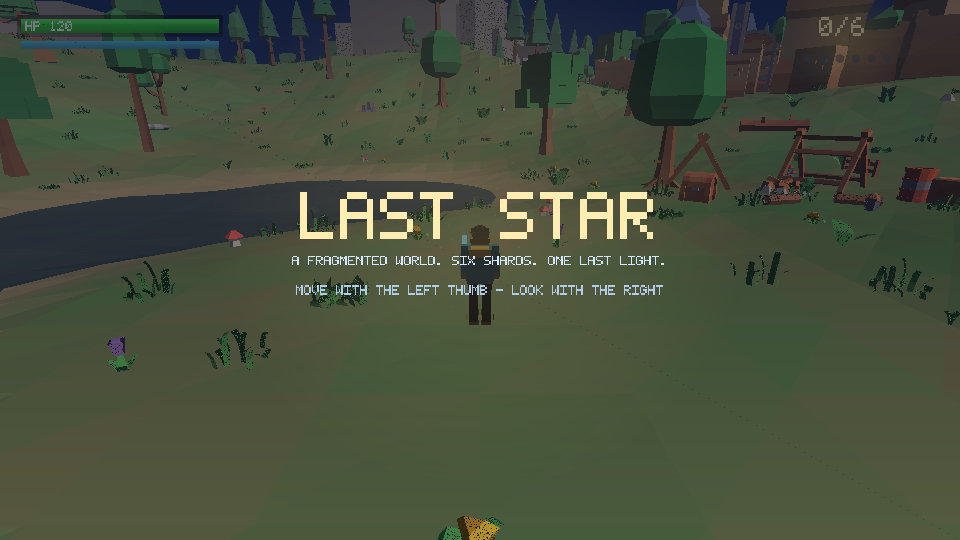
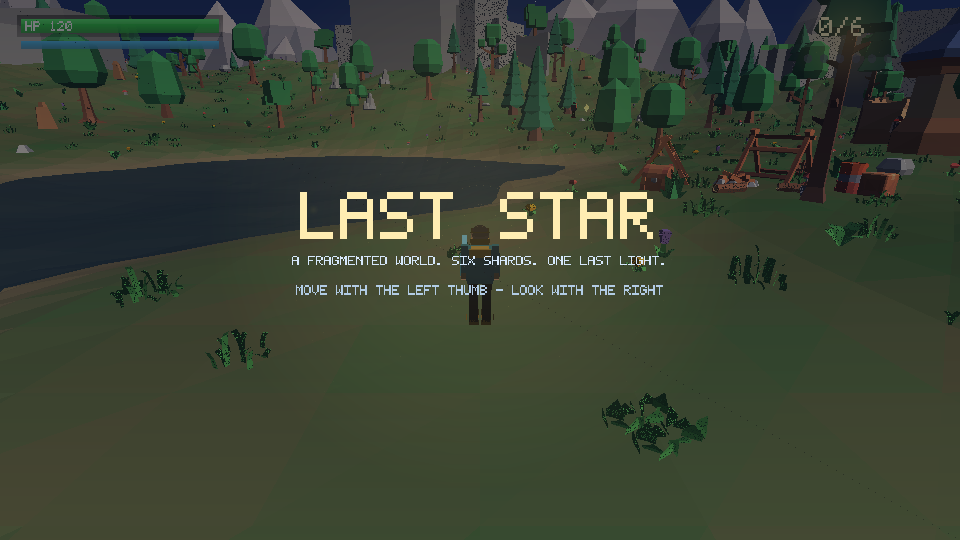
Sculpt a mountain ring and add a distant snow-capped range

diff --git a/app/src/main/java/com/laststar/game/gl/Geometry.java b/app/src/main/java/com/laststar/game/gl/Geometry.java
@@ -55,11 +55,20 @@ public final class Geometry {
                 gg = lerp(gg, 0.60f, dirtT);
                 gb = lerp(gb, 0.44f, dirtT);
 
-                // Rock on steep faces: cool grey-violet.
-                float rockT = Noise.smoothstep(0.26f, 0.55f, slope);
-                gr = lerp(gr, 0.58f, rockT);
-                gg = lerp(gg, 0.60f, rockT);
-                gb = lerp(gb, 0.68f, rockT);
+                // Rock on any real gradient. The threshold is deliberately low:
+                // a 1-in-3 mountain face is only slope 0.5 here, and the whole
+                // point of the ring is that it reads as rock, not as a green
+                // hill. Grey-violet, so it sits between the grass and the sky.
+                float rockT = Noise.smoothstep(0.10f, 0.34f, slope);
+                gr = lerp(gr, 0.56f, rockT);
+                gg = lerp(gg, 0.58f, rockT);
+                gb = lerp(gb, 0.66f, rockT);
+
+                // High ground rock is warmer, like weathered granite.
+                float altT = Noise.smoothstep(18f, 38f, y);
+                gr = lerp(gr, 0.62f, altT * 0.55f);
+                gg = lerp(gg, 0.62f, altT * 0.55f);
+                gb = lerp(gb, 0.68f, altT * 0.55f);
 
                 // Sand around the waterline.
                 float sandT = Noise.smoothstep(t.waterLevel + 1.1f, t.waterLevel + 0.2f, y);
@@ -67,15 +76,18 @@ public final class Geometry {
                 gg = lerp(gg, 0.79f, sandT);
                 gb = lerp(gb, 0.60f, sandT);
 
-                // Snow on high ridges.
-                float snowT = Noise.smoothstep(12f, 18f, y);
-                gr = lerp(gr, 0.95f, snowT);
+                // Snow on the summits only. The band is broken up by noise so
+                // the snowline is ragged rather than a painted contour, and it
+                // hugs the peaks: the arena floor stays green.
+                float line = 40f + patch * 9f;
+                float snowT = Noise.smoothstep(line, line + 11f, y);
+                gr = lerp(gr, 0.96f, snowT);
                 gg = lerp(gg, 0.97f, snowT);
                 gb = lerp(gb, 1.00f, snowT);
 
                 // Gentle ambient occlusion in the valleys -- kept light so the
                 // shadow side stays blue rather than going black.
-                float ao = Noise.clamp01(0.90f + 0.14f * Noise.smoothstep(-2f, 7f, y));
+                float ao = Noise.clamp01(0.74f + 0.30f * Noise.smoothstep(-2f, 30f, y));
                 gr *= ao;
                 gg *= ao;
                 gb *= ao;
@@ -92,6 +104,103 @@ public final class Geometry {
                 int i3 = i2 + 1;
                 b.addTriangle(i0, i2, i1);
                 b.addTriangle(i1, i2, i3);
+            }
+        }
+        return b.build();
+    }
+
+    // ------------------------------------------------------------- mountains
+
+    /**
+     * A distant mountain range built as a ring of individual peaks.
+     *
+     * <p>This is the backdrop the player sees over the rim of the map. The
+     * terrain itself climbs to ~68 m at the edges, but from inside the bowl that
+     * reads as one hazy wall; a range of separate, sharp peaks behind it gives
+     * the horizon the layered silhouette that makes the view look like a place
+     * instead of a bowl. It follows the camera in X/Z (see the renderer), so a
+     * single ring is all that is ever needed: it is far enough away (400 m+) to
+     * have no parallax worth modelling.</p>
+     *
+     * <p>Each peak is a low-poly cone with a noisy radius profile, a displaced
+     * rim and a snow band painted into the vertex colours. Peaks inside the ring
+     * fade towards the fog colour so the range reads as several hazy layers.</p>
+     */
+    public static MeshData mountainRange(float radius, float baseHeight, int count,
+                                         long seed, float radiusSpread) {
+        MeshData.Builder b = new MeshData.Builder();
+        java.util.Random r = new java.util.Random(seed);
+        float[] fog = {0.62f, 0.72f, 0.86f};
+
+        for (int k = 0; k < count; k++) {
+            // Spread unevenly round the ring so no two peaks line up.
+            double ang = (k * Math.PI * 2.0 / count) + (r.nextDouble() - 0.5) * 0.42;
+            float dist = radius + (r.nextFloat() - 0.5f) * radiusSpread;
+            float cx = (float) Math.cos(ang) * dist;
+            float cz = (float) Math.sin(ang) * dist;
+            float h = baseHeight * (0.70f + r.nextFloat() * 0.60f);
+            // Base width against height. Too narrow and the range reads as
+            // teeth; too wide and it flattens into a mound. Roughly 2:1 works.
+            float w = h * (0.40f + r.nextFloat() * 0.26f);
+
+            // How far back this peak sits: 0 = nearest ring, 1 = furthest.
+            float back = Noise.clamp01((dist - radius + radiusSpread * 0.5f)
+                    / Math.max(radiusSpread, 0.001f));
+            // Nearer peaks are darker and sharper; far ones dissolve into haze.
+            float haze = 0.10f + 0.42f * back;
+
+            int sides = 5 + r.nextInt(3);
+            float[] jitter = new float[sides];
+            for (int i = 0; i < sides; i++) {
+                jitter[i] = 0.78f + r.nextFloat() * 0.44f;
+            }
+            // A slightly off-centre apex gives the classic asymmetric peak.
+            float apexX = cx + (r.nextFloat() - 0.5f) * w * 0.22f;
+            float apexZ = cz + (r.nextFloat() - 0.5f) * w * 0.22f;
+            float snowline = h * (0.64f + r.nextFloat() * 0.14f);
+
+            int base = b.vertexCount();
+            for (int i = 0; i < sides; i++) {
+                double a = i * Math.PI * 2.0 / sides;
+                float rx = (float) Math.cos(a) * w * jitter[i];
+                float rz = (float) Math.sin(a) * w * jitter[i];
+                float x = cx + rx;
+                float z = cz + rz;
+
+                // Rock colour: deep cool slate, hazed towards the sky by
+                // distance. The near range stays dark enough to silhouette
+                // against the sky; only the back layer goes properly pale.
+                float rockR = Noise.lerp(0.13f, 0.40f, back);
+                float rockG = Noise.lerp(0.15f, 0.46f, back);
+                float rockB = Noise.lerp(0.23f, 0.60f, back);
+                float cr = Noise.lerp(rockR, fog[0], haze);
+                float cg = Noise.lerp(rockG, fog[1], haze);
+                float cb = Noise.lerp(rockB, fog[2], haze);
+                Vec3 n = new Vec3(rx, w * 0.55f, rz).normalized();
+                b.addVertex(x, -2f, z, n.x, n.y, n.z, cr, cg, cb, 1f, 0f);
+
+                // Snow cap ring: same rim, lifted to the snowline.
+                float capR = rx * 0.42f;
+                float capZ = rz * 0.42f;
+                float sc = 0.84f + r.nextFloat() * 0.08f;
+                b.addVertex(cx + capR, snowline, cz + capZ,
+                        n.x, n.y, n.z, sc, sc, Noise.clamp01(sc + 0.06f), 1f, 0f);
+            }
+            // Apex, white.
+            b.addVertex(apexX, h, apexZ, 0f, 1f, 0f, 0.97f, 0.98f, 1f, 1f, 0f);
+
+            int apexIndex = base + sides * 2;
+            for (int i = 0; i < sides; i++) {
+                int nxt = (i + 1) % sides;
+                int b0 = base + i * 2;
+                int b1 = base + nxt * 2;
+                int c0 = b0 + 1;
+                int c1 = b1 + 1;
+                // Lower rock face.
+                b.addTriangle(b0, c0, b1);
+                b.addTriangle(b1, c0, c1);
+                // Snow pyramid on top.
+                b.addTriangle(c0, apexIndex, c1);
             }
         }
         return b.build();

diff --git a/app/src/main/java/com/laststar/game/gl/SceneRenderer.java b/app/src/main/java/com/laststar/game/gl/SceneRenderer.java
@@ -33,7 +33,7 @@ public final class SceneRenderer {
         public float zenithR = 0.09f, zenithG = 0.16f, zenithB = 0.34f;
         public float sunR = 1.00f, sunG = 0.86f, sunB = 0.62f;
         public float ambientR = 0.35f, ambientG = 0.40f, ambientB = 0.48f;
-        public float fogDensity = 0.0030f;
+        public float fogDensity = 0.0007f;
     }
 
     private final Sky sky = new Sky();
@@ -50,6 +50,11 @@ public final class SceneRenderer {
     private Mesh particleMesh;
     private Mesh ringMesh;
     private Mesh cubeMesh;
+    /**
+     * The distant range. Built as a full ring, centred on the camera every
+     * frame, so the horizon is never empty no matter which way you look.
+     */
+    private Mesh mountainMesh;
 
     /** Imported props (trees, rocks, the castle...) and where they stand. */
     private ModelLibrary models;
@@ -86,6 +91,8 @@ public final class SceneRenderer {
         particleMesh = toMesh(Geometry.quad(1f, 1f, 1f, 1f, 1f));
         ringMesh = toMesh(Geometry.groundRing(1f, 0.12f, 28, 1f, 1f, 1f, 1f));
         cubeMesh = toMesh(Geometry.box(1f, 1f, 1f, 1f, 1f, 1f, 1f, 0f, 0f, 0f));
+
+        mountainMesh = toMesh(Geometry.mountainRange(520f, 96f, 56, world.worldSeed ^ 0x5A5A5A5AL, 230f));
 
         loadModels(world, assets);
 
@@ -193,6 +200,7 @@ public final class SceneRenderer {
         sceneProgram.setFloat("uWaveAmp", 0f);
         drawMesh(terrainMesh);
 
+        drawMountains(camera);
         drawProps(world, camera);
         drawShards(world);
         drawPickups(world);
@@ -205,6 +213,30 @@ public final class SceneRenderer {
         drawParticles(world, camera);
 
         GLES20.glDisable(GLES20.GL_DEPTH_TEST);
+    }
+
+    /**
+     * Draws the distant range as a ring centred on the camera.
+     *
+     * <p>It is far outside the playable area, so rather than modelling where it
+     * really is, it is translated to follow the player in X/Z and sits at a fixed
+     * height. At 430 m out with the fog the game already applies, that is
+     * indistinguishable from real parallax, and it means one mesh covers the
+     * entire horizon from any position on the map.</p>
+     */
+    private void drawMountains(Camera camera) {
+        modelMatrix.identity();
+        modelMatrix.m[12] = camera.position.x;
+        modelMatrix.m[13] = 0f;
+        modelMatrix.m[14] = camera.position.z;
+        tmp.setMultiply(frameViewProj, modelMatrix);
+        sceneProgram.setMvp(tmp.m);
+        sceneProgram.setModel(modelMatrix.m);
+        // The range carries its own haze in the vertex colours, so it only needs
+        // a touch of extra fog and no tint.
+        sceneProgram.setTintAmount(0f);
+        sceneProgram.setEmissive(0.06f);
+        drawMesh(mountainMesh);
     }
 
     /**
@@ -526,7 +558,7 @@ public final class SceneRenderer {
         sky.ambientR = Noise.lerp(0.55f, 0.26f, night);
         sky.ambientG = Noise.lerp(0.58f, 0.30f, night);
         sky.ambientB = Noise.lerp(0.66f, 0.44f, night);
-        sky.fogDensity = Noise.lerp(0.0030f, 0.0058f, night);
+        sky.fogDensity = Noise.lerp(0.0007f, 0.0016f, night);
         sunPitch = Noise.lerp(34f, 12f, night);
         sunYaw = 42f + world.worldTime * 0.35f;
     }

diff --git a/desktop/ScreenshotTool.java b/desktop/ScreenshotTool.java
@@ -193,7 +193,7 @@ public final class ScreenshotTool {
         float ambR = Noise.lerp(0.42f, 0.20f, night);
         float ambG = Noise.lerp(0.44f, 0.23f, night);
         float ambB = Noise.lerp(0.50f, 0.34f, night);
-        float fogD = Noise.lerp(0.0062f, 0.0105f, night);
+        float fogD = Noise.lerp(0.0007f, 0.0016f, night);
 
         float sunYaw = (float) Math.toRadians(42f + world.worldTime * 0.35f);
         float sunPitch = (float) Math.toRadians(Noise.lerp(34f, 12f, night));
@@ -228,6 +228,16 @@ public final class ScreenshotTool {
         float[] tint = {0.06f, 0.44f, 0.66f};
         raster.drawMesh(water.positions, water.normals, water.colors, water.indices,
                 identity, 0.72f, 0.10f, tint, 0.62f);
+
+        // Distant range: the same ring the renderer builds, centred on the
+        // camera, so the horizon matches the APK.
+        MeshData range = Geometry.mountainRange(520f, 96f, 56,
+                world.worldSeed ^ 0x5A5A5A5AL, 230f);
+        Mat4 rangMat = new Mat4();
+        rangMat.m[12] = cam.position.x;
+        rangMat.m[14] = cam.position.z;
+        raster.drawMesh(range.positions, range.normals, range.colors, range.indices,
+                rangMat, 1f, 0.06f, null, 0f);
 
         // Set dressing: exactly the plan the renderer uses.
         if (MODELS != null) {

diff --git a/app/src/main/java/com/laststar/game/core/Terrain.java b/app/src/main/java/com/laststar/game/core/Terrain.java
@@ -58,9 +58,14 @@ public final class Terrain {
         // Rolling base terrain.
         float h = base.fbm(nx, nz, 4, 2.02f, 0.5f) * 5.5f;
 
-        // Mountain ridges, faded out near the arena centre so combat stays fair.
-        float ridgeMask = Noise.smoothstep(0.22f, 0.75f, (float) Math.sqrt(nx * nx + nz * nz));
-        h += ridge.ridged(nx * 0.55f + 13.1f, nz * 0.55f - 7.7f, 4) * 16.0f * ridgeMask;
+        // Foothills towards the rim. Deliberately moderate: shards spawn up to
+        // 86 m out and the player has to walk to them, so the playable ground
+        // can never turn into a wall. The tall, dramatic peaks are a separate
+        // decorative range outside the map (see Geometry.mountainRange) -- they
+        // need no collision, so they can be as huge as the view wants.
+        float radial = (float) Math.sqrt(wx * wx + wz * wz) / (size * 0.5f);
+        float rim = Noise.smoothstep(0.30f, 0.92f, radial);
+        h += ridge.ridged(nx * 0.62f + 13.1f, nz * 0.62f - 7.7f, 4) * 21.0f * rim;
 
         // Fine bumps for footstep variation.
         h += detail.fbm(wx * 0.05f, wz * 0.05f, 3, 2.11f, 0.45f) * 1.1f;

diff --git a/app/src/main/java/com/laststar/game/gl/PropPlanner.java b/app/src/main/java/com/laststar/game/gl/PropPlanner.java
@@ -178,7 +178,10 @@ public final class PropPlanner {
                 continue;
             }
             // Cliffs and hills want the steep ground everything else avoids.
-            if (!openGround && slope < 0.35f) {
+            // The threshold is low because the terrain is gentle by design: the
+            // foothills peak around slope 0.24, so anything higher would leave
+            // these roles with nowhere to stand and they would silently vanish.
+            if (!openGround && slope < 0.13f) {
                 continue;
             }
             int index = models.pickIndex(role, i * 31 + 7);

diff --git a/app/src/main/java/com/laststar/game/core/Camera.java b/app/src/main/java/com/laststar/game/core/Camera.java
@@ -90,7 +90,9 @@ public final class Camera {
     }
 
     public Mat4 projectionMatrix(float aspect) {
-        return Mat4.perspective(fov, aspect, 0.08f, 420f);
+        // The far plane has to clear the distant mountain ring (430 m) with
+        // room to spare, or the whole range is clipped away silently.
+        return Mat4.perspective(fov, aspect, 0.08f, 1400f);
     }
 
     /** Applies a look input, clamped so the camera never flips. */
